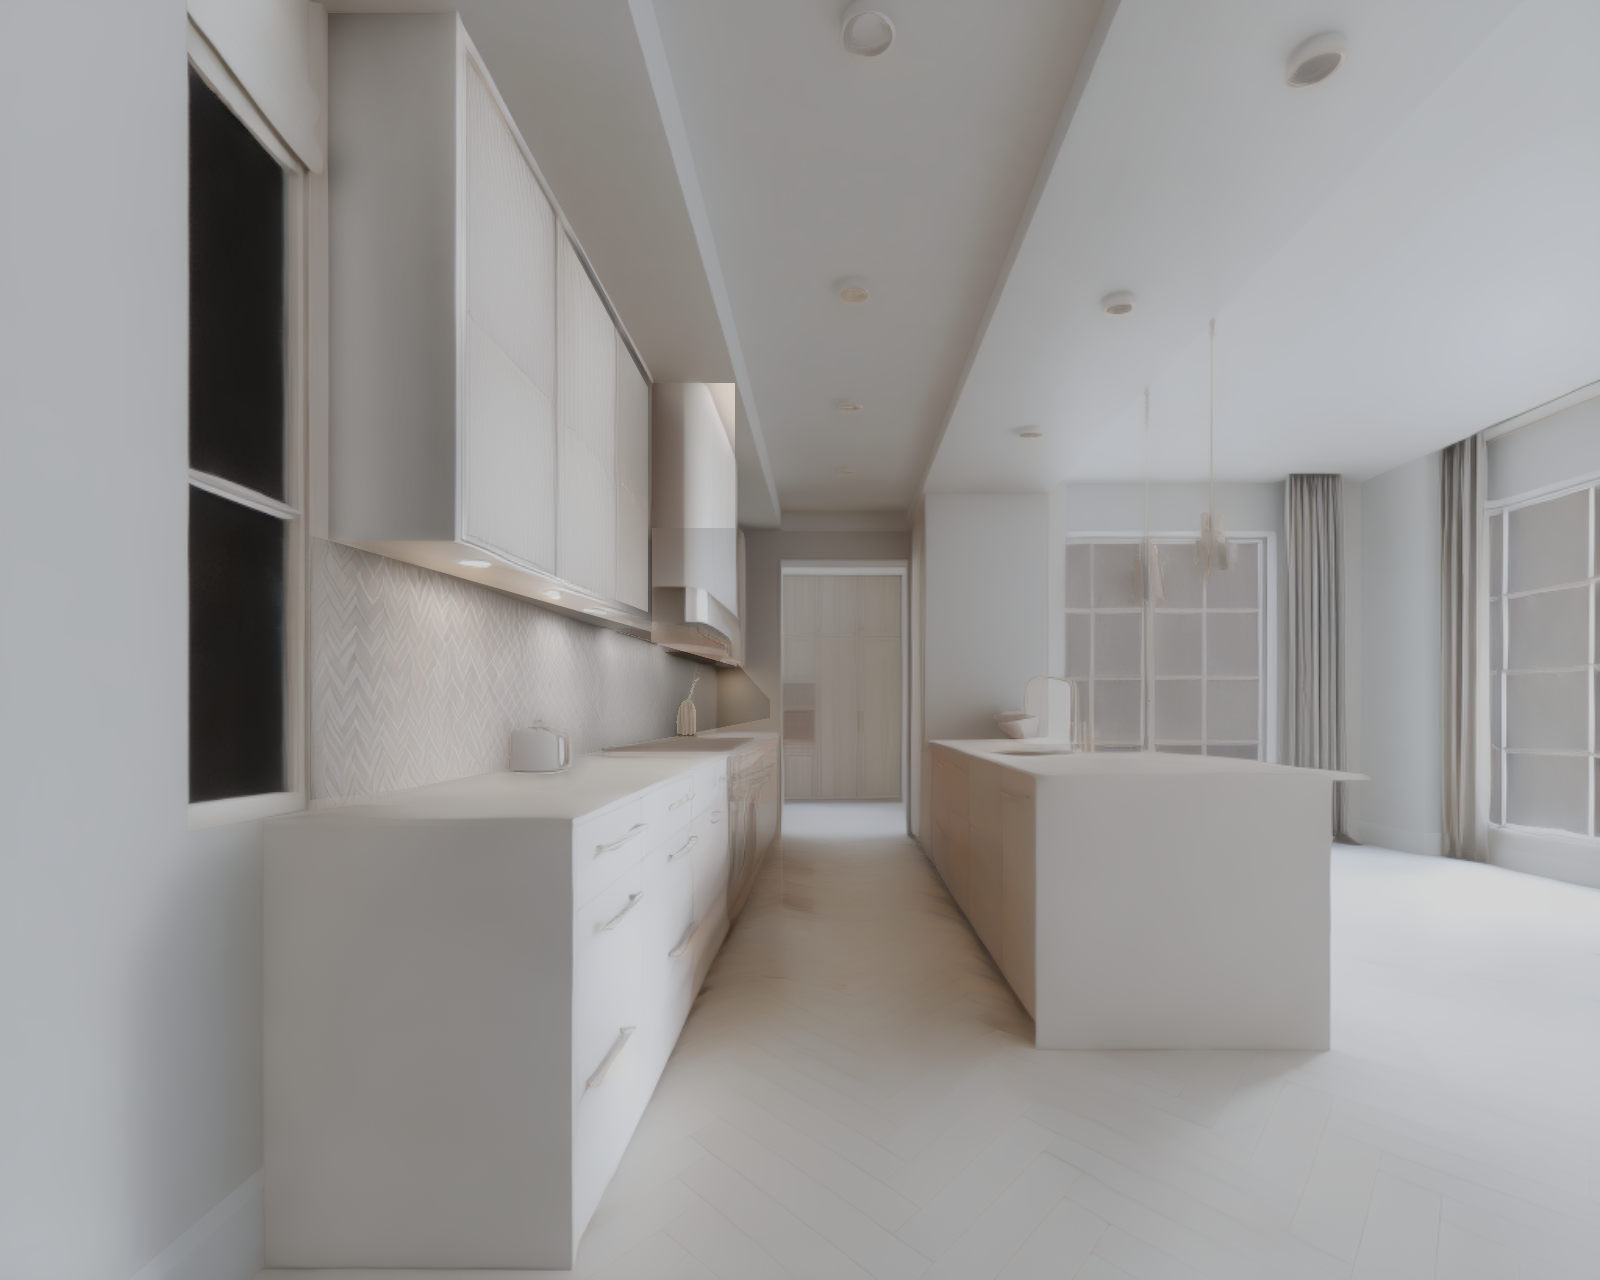
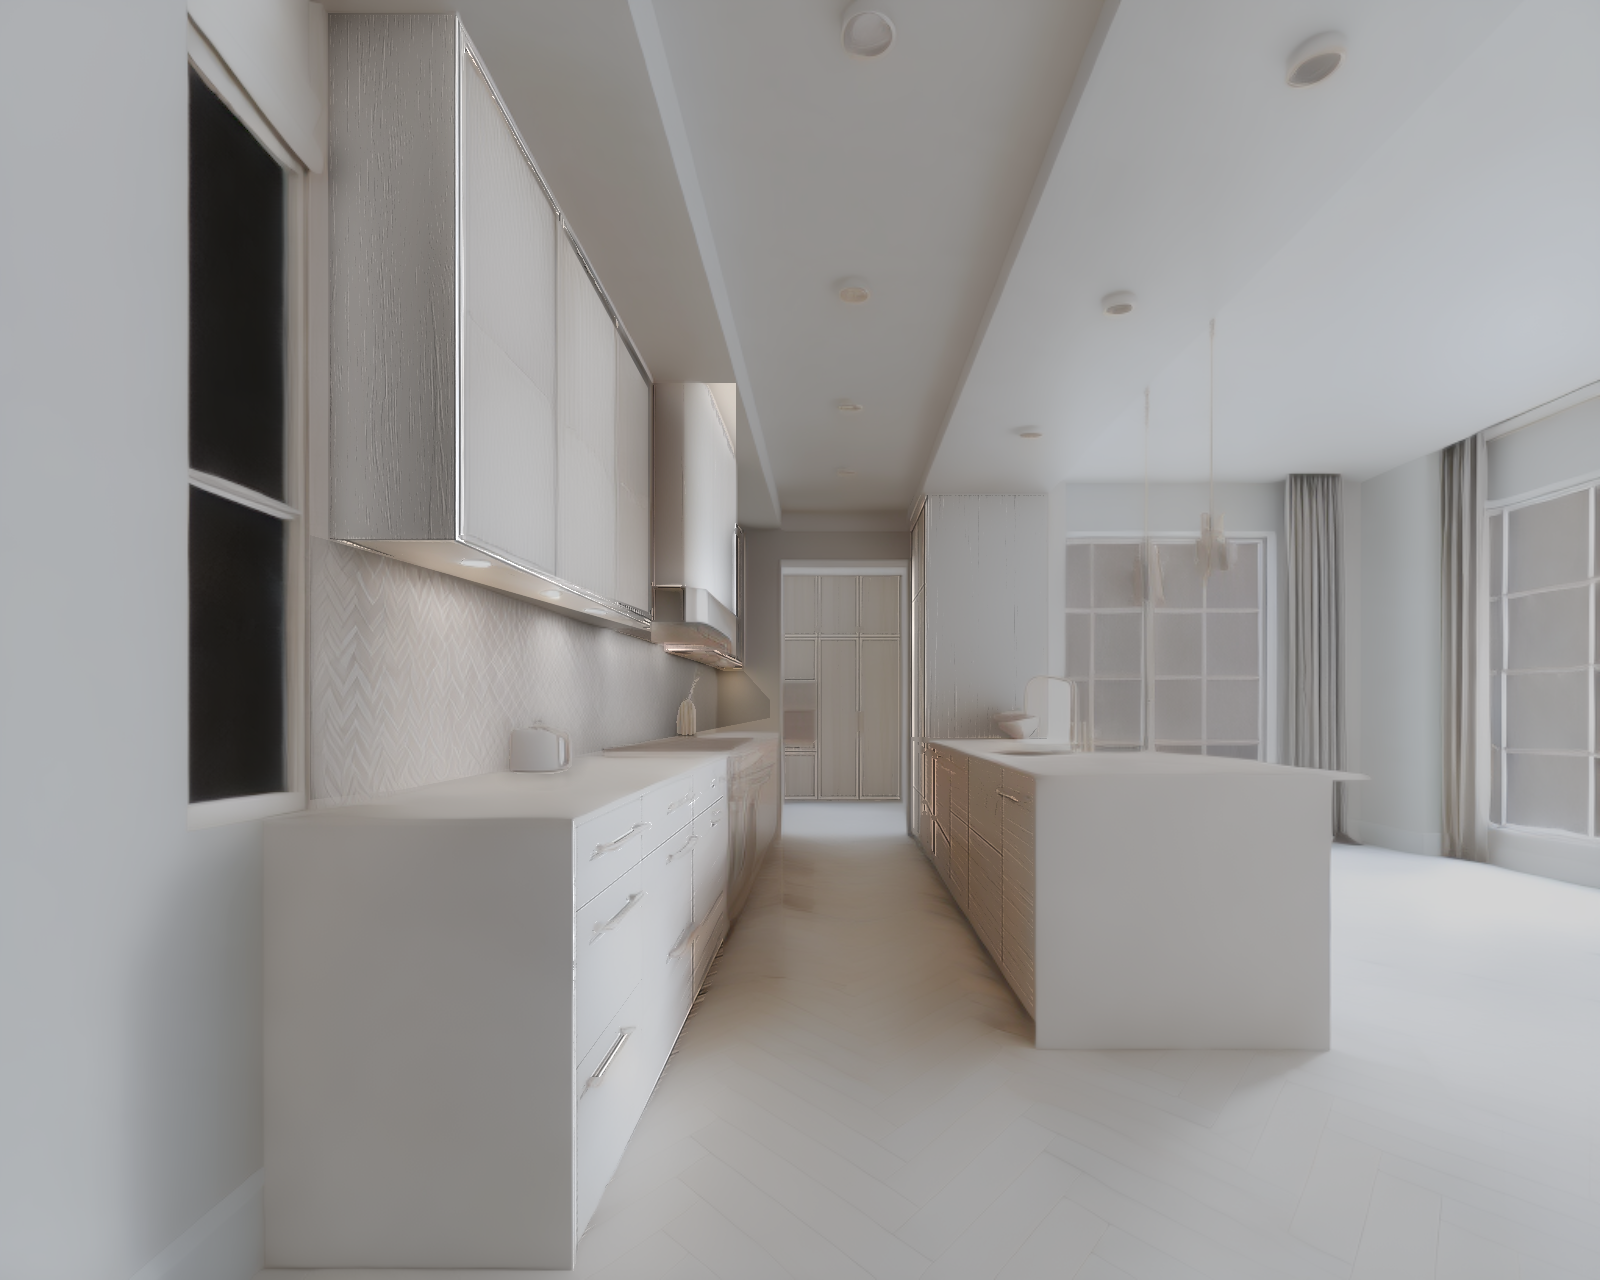
Galley kitchen: paint the hood end box and island end, keep front gaps and handles
- Wall cabinets: the end box over the cooker hood is painted down to the hood,
  with its side strip and the oak shelf under the hood (taken off the splashback)
- Island: starts at its narrow end door; its far bar handles stay brass
- Tall units: the pantry stays inside the doorway's white architrave; its bar
  handles and knobs stay brass. Base cabinets: the long upright handle stays
- Light refine `lines`: the gaps between doors and drawers (and the pantry's
  frames) are carried into the shading, so a new paint keeps them; grain stays out
- Bake page: ?items= / BAKE_ITEMS to re-bake some items of a scene
- QA points for all of the above

Changed region(s): [[0.2812, 0.0312, 0.3125, 0.4375], [0.5625, 0.4375, 0.5938, 0.6562], [0.4062, 0.4062, 0.4688, 0.5312]]

diff --git a/scenes/scenes.ts b/scenes/scenes.ts
@@ -82,6 +82,23 @@ const knob = (cx: number, cy: number, rx = 5, ry = 4.5): PctPoint[] =>
 const gEllipse = (cx: number, cy: number, rx: number, ry: number): PctPoint[] =>
   Array.from({ length: 16 }, (_, k) => G(cx + rx * Math.cos((Math.PI * k) / 8), cy + ry * Math.sin((Math.PI * k) / 8)));
 const GALLEY_DOWNLIGHTS = [gEllipse(477.5, 563, 15, 4.5), gEllipse(551, 593.5, 12, 4), gEllipse(596, 611.5, 10, 3.5), gEllipse(626, 623.5, 7, 3)];
+// The oak shelf under the cooker hood (the wall cabinets', not the splashback's) and its downlights
+const GALLEY_HOOD_SHELF = [G(664, 642), G(700, 642), G(744, 659), G(744, 671), G(725, 671), G(700, 662), G(664, 651)];
+const GALLEY_HOOD_LIGHTS = [gEllipse(699, 654, 6, 2.5), gEllipse(713, 659, 5, 2.5), gEllipse(723, 663, 4.5, 2.5), gEllipse(729, 666, 4, 2)];
+const gBox = (x0: number, y0: number, x1: number, y1: number): PctPoint[] => [G(x0, y0), G(x1, y0), G(x1, y1), G(x0, y1)];
+// The pantry's two bar handles and its four small knobs, each pixel-tight
+const GALLEY_PANTRY_HANDLES = [
+  gBox(855.6, 712.5, 859.6, 729.8), gBox(860.6, 712.5, 863.8, 729.8),
+  gBox(815.5, 627.6, 817.8, 630.8), gBox(818.6, 627.6, 820.8, 630.8), gBox(856.4, 627.6, 858.6, 630.8), gBox(859.6, 627.6, 862.4, 630.8),
+];
+// A thin bar along a segment (photo px), `half` px either side: the island's far bar handles, seen
+// edge-on, run into the door gaps as one colour and the colour rule can't single them out
+const gBar = (x0: number, y0: number, x1: number, y1: number, half = 2): PctPoint[] => {
+  const len = Math.hypot(x1 - x0, y1 - y0);
+  const [nx, ny] = [(-(y1 - y0) / len) * half, ((x1 - x0) / len) * half];
+  return [G(x0 + nx, y0 + ny), G(x1 + nx, y1 + ny), G(x1 - nx, y1 - ny), G(x0 - nx, y0 - ny)];
+};
+const GALLEY_ISLAND_HANDLES = [gBar(917, 748.5, 923, 750.5), gBar(932, 744, 950, 751), gBar(927, 752, 932, 754), gBar(950, 750.5, 965, 756.5), gBar(939, 760, 963, 771.5)];
 const GALLEY_BOWL = [G(993, 712), G(1040, 712), G(1039, 720), G(1035, 728), G(1028, 734), G(1026, 741), G(1004, 741), G(1003, 735), G(998, 728), G(994, 720)];
 // The tap's swan neck where it crosses the tall unit (right of x 1048 it is before the window)
 const GALLEY_TAP = [G(1018, 714), G(1019, 704), G(1023, 702), G(1023, 688), G(1025, 681), G(1030, 676), G(1036, 674), G(1049, 674), G(1049, 683), G(1037, 683), G(1033, 686), G(1031, 692), G(1031, 702), G(1030, 714)];
@@ -385,10 +402,16 @@ export const SCENES: Scene[] = [
         recipe: {
           label: 'cabinet',
           anchors: [],
-          // The run's oak case, frames and end box; the fluted glass doors stay glass
-          outline: [{ points: [G(328, 13), G(457, 13), G(652, 383), G(735, 383), G(735, 528), G(652, 528), G(652, 632), G(328, 540)], snap: false }],
+          // The run's oak case, frames and end box (down to the hood: its niche left of the steel
+          // front, and its sloped foot right of it); the fluted glass doors stay glass. Then the
+          // end box's side strip beside the hood and the oak shelf with downlights under the hood
+          outline: [
+            { points: [G(328, 13), G(457, 13), G(652, 383), G(736, 383), G(736, 617), G(706, 589), G(686, 587), G(686, 622), G(652, 622), G(652, 632), G(328, 540)], snap: false },
+            { points: [G(736, 522), G(744, 530), G(744, 664), G(736, 660)], snap: false },
+            { points: GALLEY_HOOD_SHELF, snap: false },
+          ],
           // …and the downlights in its underside stay lit
-          subtract: [{ points: [G(466, 52), G(648, 388), G(648, 612), G(466, 542)], snap: false }, ...GALLEY_DOWNLIGHTS.map((points) => ({ points, snap: false }))],
+          subtract: [{ points: [G(466, 52), G(648, 388), G(648, 612), G(466, 542)], snap: false }, ...[...GALLEY_DOWNLIGHTS, ...GALLEY_HOOD_LIGHTS].map((points) => ({ points, snap: false }))],
         },
       },
       {
@@ -401,10 +424,15 @@ export const SCENES: Scene[] = [
           anchors: [],
           outline: [
             [G(902, 493), G(1047, 493), G(1047, 742), G(902, 742)],
-            [G(781, 570), G(902, 570), G(902, 799), G(781, 799)],
+            // (inside the doorway's white architrave)
+            [G(784, 575), G(902, 575), G(902, 799), G(784, 799)],
           ],
-          // The oven in the far run; the bowl and the tap before the island's tall unit
-          subtract: [[G(781, 682), G(814, 682), G(814, 745), G(781, 745)], ...[GALLEY_BOWL, GALLEY_TAP].map((points) => ({ points, snap: false }))],
+          // The oven in the far run and the pantry's pale brass bar handles and knobs (too pale
+          // for the colour rule); the bowl and the tap before the island's tall unit
+          subtract: [
+            [G(781, 682), G(814, 682), G(814, 745), G(781, 745)],
+            ...[GALLEY_BOWL, GALLEY_TAP, ...GALLEY_PANTRY_HANDLES].map((points) => ({ points, snap: false })),
+          ],
         },
       },
       {
@@ -416,7 +444,11 @@ export const SCENES: Scene[] = [
           label: 'cabinet',
           anchors: [],
           outline: [{ points: [G(571, 820), G(725, 760), G(725, 960), G(571, 1280)], snap: false }],
-          protectColour: [brass([[G(571, 740), G(735, 740), G(735, 1280), G(571, 1280)]])],
+          protectColour: [
+            brass([[G(571, 740), G(735, 740), G(735, 1280), G(571, 1280)]]),
+            // The upright handle on the right-hand drawer is longer than a knob
+            { ...brass([[G(664, 918), G(703, 918), G(703, 960), G(664, 960)]]), blobs: { minArea: 22, maxArea: 1500, maxAspect: 8, core: { minSat: 0.55, minShare: 0.1 } } },
+          ],
         },
       },
       {
@@ -427,8 +459,12 @@ export const SCENES: Scene[] = [
         recipe: {
           label: 'cabinet',
           anchors: [],
-          outline: [{ points: [G(927, 741), G(1035, 778), G(1035, 1020), G(927, 845)], snap: false }],
-          protectColour: [brass([[G(920, 735), G(1040, 735), G(1040, 1025), G(920, 1025)]])],
+          // From the narrow end door beside the tall unit
+          outline: [{ points: [G(911, 739), G(927, 741), G(1035, 778), G(1035, 1020), G(927, 845), G(911, 827)], snap: false }],
+          subtract: GALLEY_ISLAND_HANDLES.map((points) => ({ points, snap: false })),
+          // Its oak is warmer than the other runs' (sat 0.45–0.5), so brass is only what is clearly
+          // more saturated (0.6–0.8)
+          protectColour: [{ ...brass([[G(905, 735), G(1040, 735), G(1040, 1025), G(905, 1025)]], 12), minSat: 0.58, blobs: { minArea: 12, maxArea: 700, maxAspect: 12, core: { minSat: 0.65, minShare: 0.1 } } }],
         },
       },
       {
@@ -461,8 +497,8 @@ export const SCENES: Scene[] = [
           label: 'wall',
           anchors: [],
           outline: [{ points: [G(310, 535), G(328, 540), G(652, 632), G(735, 661), G(770, 700), G(770, 718), G(400, 790), G(310, 800)], snap: false }],
-          // The cooker hood above the range
-          subtract: [[G(652, 587), G(735, 587), G(735, 661), G(652, 640)]],
+          // The cooker hood above the range, and the oak shelf under it
+          subtract: [[G(652, 587), G(735, 587), G(735, 661), G(652, 640)], { points: GALLEY_HOOD_SHELF, snap: false }],
           protect: [G(533, 746), G(688, 712)],
           protectSoft: GALLEY_THIN,
         },

diff --git a/scenes/lightRefine.ts b/scenes/lightRefine.ts
@@ -35,7 +35,15 @@ export interface LightRefine {
   contrast?: number;
   // Polished floor: reflection streaks moved from the albedo into the reflection layer
   gloss?: { along: number; across: number };
+  // Cabinet fronts: the gaps between doors and drawers (a dark slot with a lit edge) carried into
+  // the shading, so a new paint keeps them; grain, fainter than `threshold`, stays the material's.
+  // `strength` scales them (a gap reads fainter on a dark paint than on pale oak)
+  lines?: { sigma: number; threshold: number; strength?: number };
 }
+
+// A gap between oak fronts is a dark slot or a lit edge a few px wide, 8%+ off the wood around it
+// (log luminance); the grain beside it mostly stays under that
+const FRONT_LINES = { sigma: 2.5, threshold: 0.08, strength: 1.5 };
 
 // Per scene, per item. Only the Galley so far: the Classic kitchen's paints are fitted against its
 // unrefined light (npm run finishes:fromref), and the Modern kitchen's light reads right as it is
@@ -44,8 +52,12 @@ export const LIGHT_REFINE: Record<string, Record<string, LightRefine>> = {
     // The light pools under the wall cabinets and the run darkening toward the hood, as strong as
     // they look on the white tile
     splashback: { sigma: 10, contrast: 1.8 },
-    // The lit underside of the wall cabinets around its downlights
-    'wall-cabinets': { sigma: 8 },
+    // The lit underside of the wall cabinets around its downlights; on every front, the gaps
+    // between its doors and drawers and the pantry's door frames
+    'wall-cabinets': { sigma: 8, lines: FRONT_LINES },
+    'tall-units': { sigma: 0, lines: FRONT_LINES },
+    'base-cabinets': { sigma: 0, lines: FRONT_LINES },
+    island: { sigma: 0, lines: FRONT_LINES },
     // The toaster's, the vase's and the tap's contact shadows and reflections; the veins stay
     worktop: { sigma: 3, near: 18 },
     // The polished herringbone's reflections of the doorway, the oven and the cabinet edges
@@ -166,9 +178,10 @@ export const lightGain = (layers: LightLayers, mask: Float32Array, occluder: Flo
   const { width: w, height: h, shading } = layers;
   const n = w * h;
   const gain = new Float32Array(n).fill(1);
-  if (opts.sigma <= 0 && !opts.contrast) return gain;
+  if (opts.sigma <= 0 && !opts.contrast && !opts.lines) return gain;
   const { logA, weight, count } = logAlbedo(layers, mask);
   if (count < 16) return gain;
+  const lines = opts.lines ? frontLines(logA, weight, w, h, opts.lines) : null;
   // The reference level is the median of the smoothed albedo, on the same footing as what it is
   // compared with (a raw median of a two-tone grain would sit on one tone, the blur between them)
   const smooth = opts.sigma > 0 ? maskedBlur(logA, weight, w, h, opts.sigma) : new Float32Array(n);
@@ -195,7 +208,29 @@ export const lightGain = (layers: LightLayers, mask: Float32Array, occluder: Flo
       gain[i] *= Math.exp(e * mask[i]);
     }
   }
+  if (lines) for (let i = 0; i < n; i++) if (lines[i] && mask[i] > 0) gain[i] *= Math.exp(Math.min(max, Math.max(-max, lines[i])) * mask[i]);
   return gain;
+};
+
+/**
+ * The albedo's fine structure (log, relative to a `sigma` blur) where it stands out by more than
+ * `threshold`, fading in up to twice that: the slots and lit edges between fronts, not the grain.
+ */
+export const frontLines = (logA: Float32Array, weight: Float32Array, w: number, h: number, opts: { sigma: number; threshold: number; strength?: number }): Float32Array => {
+  const base = maskedBlur(logA, weight, w, h, opts.sigma);
+  const out = new Float32Array(w * h);
+  const t = opts.threshold;
+  // The item's own outline is no line to carry: its rim pixels are part background
+  const outside = new Float32Array(w * h);
+  for (let i = 0; i < out.length; i++) outside[i] = weight[i] ? 0 : 1;
+  const rim = distanceTo(outside, w, h);
+  for (let i = 0; i < out.length; i++) {
+    if (!weight[i] || rim[i] <= 2) continue;
+    const d = logA[i] - base[i];
+    const k = Math.min(1, Math.max(0, (Math.abs(d) - t) / t));
+    out[i] = d * k * k * (3 - 2 * k) * (opts.strength ?? 1);
+  }
+  return out;
 };
 
 /**

diff --git a/components/dev/SceneBakePage.tsx b/components/dev/SceneBakePage.tsx
@@ -43,7 +43,7 @@ export const SceneBakePage: React.FC = () => {
   );
   useEffect(() => void refresh(), [refresh]);
 
-  // ?run=all|missing[&scene=<id>] starts a bake on load (npm run scenes:bake drives this)
+  // ?run=all|missing[&scene=<id>][&items=<id>,…] starts a bake on load (npm run scenes:bake drives this)
   const started = useRef(false);
   useEffect(() => {
     const params = new URLSearchParams(window.location.search);
@@ -52,7 +52,8 @@ export const SceneBakePage: React.FC = () => {
     started.current = true;
     const only = params.get('scene');
     if (only) setSceneId(only as typeof sceneId);
-    void autoBake(only ? SCENES.filter((s) => s.id === only) : SCENES, run === 'missing');
+    const items = params.get('items')?.split(',');
+    void autoBake(only ? SCENES.filter((s) => s.id === only) : SCENES, run === 'missing', items);
   }, [bust]); // eslint-disable-line react-hooks/exhaustive-deps
 
   // Overview: every baked item of the scene tinted over the photo
@@ -98,12 +99,13 @@ export const SceneBakePage: React.FC = () => {
     return result;
   };
 
-  const autoBake = async (scenes: Scene[], onlyMissing: boolean) => {
+  const autoBake = async (scenes: Scene[], onlyMissing: boolean, onlyItems?: string[]) => {
     setError(null);
     setLog([]);
     for (const s of scenes) {
       for (const item of s.items) {
         if (onlyMissing && baked[s.id]?.items[item.id]) continue;
+        if (onlyItems && !onlyItems.includes(item.id)) continue;
         try {
           const r = await bakeAndSave(s, item);
           setLog((l) => [...l, `✓ ${s.id}/${item.id} — ${r.parts.length} plane(s), confidence ${Math.round(r.confidence * 100)}%`]);

diff --git a/scenes/qa.ts b/scenes/qa.ts
@@ -86,8 +86,13 @@ export const SCENE_QA: Record<string, ItemQa> = {
   'kitchen-modern/base-cabinets': { include: [[880, 770], [430, 880], [1420, 900]] },
   // Galley: the hob, toaster and tap are not worktop; the fluted glass is not wall cabinet
   'kitchen-galley/worktop': { include: [[420, 1050], [1180, 900], [1200, 772]], exclude: [[680, 744], [533, 746], [1052, 712]] },
-  'kitchen-galley/wall-cabinets': { include: [[390, 300]], exclude: [[560, 330]] },
-  'kitchen-galley/base-cabinets': { include: [[650, 900]] },
+  // …the end box over the hood down to its foot, its side strip and the shelf under the hood are
+  // (its steel front is not); the long upright drawer handle and the island's and pantry's brass
+  // stay; the island starts at its narrow end door; the doorway's white architrave is no pantry
+  'kitchen-galley/wall-cabinets': { include: [[390, 300], [670, 570], [725, 600], [740, 600], [690, 646]], exclude: [[560, 330], [696, 605]] },
+  'kitchen-galley/base-cabinets': { include: [[650, 900]], exclude: [[684, 936]] },
+  'kitchen-galley/island': { include: [[918, 790], [980, 850]], exclude: [[1010, 792], [951, 766]] },
+  'kitchen-galley/tall-units': { include: [[840, 700], [975, 600]], exclude: [[782, 700], [858, 720], [800, 571]] },
   // The door's foot and the right wall's skirting are not floor
   'wardrobe/floor': { include: [[1500, 950], [800, 1000]], exclude: [[110, 995], [150, 962], [1540, 895], [1500, 860]] },
   // The door casing's plinth block is not wall

diff --git a/tests/e2e/scene-bake.spec.ts b/tests/e2e/scene-bake.spec.ts
@@ -2,7 +2,7 @@ import { test, expect } from '@playwright/test';
 
 // Opt-in (npm run scenes:bake, real models, several minutes per scene): runs every preset scene
 // item's recipe in /dev/scenes and writes the masks/planes the studio ships. BAKE=missing bakes
-// only items not baked yet; BAKE_SCENE=<id> limits it to one scene. Re-run after changing a
+// only items not baked yet; BAKE_SCENE=<id> limits it to one scene, BAKE_ITEMS=<id>,… to some of its items. Re-run after changing a
 // recipe or a scene photo, then review and correct the items in /dev/scenes. Don't edit source
 // files while it runs: a hot reload restarts the page and stops the bake.
 test.skip(!process.env.BAKE, 'opt-in: BAKE=1');
@@ -10,7 +10,7 @@ test.skip(!process.env.BAKE, 'opt-in: BAKE=1');
 test('bake scene items', async ({ page }) => {
   test.setTimeout(60 * 60_000);
   page.on('console', (m) => m.type() === 'error' && console.log('[page]', m.text()));
-  const scene = process.env.BAKE_SCENE ? `&scene=${process.env.BAKE_SCENE}` : '';
+  const scene = (process.env.BAKE_SCENE ? `&scene=${process.env.BAKE_SCENE}` : '') + (process.env.BAKE_ITEMS ? `&items=${process.env.BAKE_ITEMS}` : '');
   // Wait for the baked state to load before starting (?run reads it to skip baked items)
   await page.goto(`/dev/scenes?run=${process.env.BAKE === 'missing' ? 'missing' : 'all'}${scene}`);
   const log = page.getByTestId('bake-log');

diff --git a/tests/unit/lightRefine.test.ts b/tests/unit/lightRefine.test.ts
@@ -89,3 +89,18 @@ describe('maskedBlur and distanceTo', () => {
     expect(d[20 * W + 16]).toBeCloseTo(6, 5);
   });
 });
+
+describe('frontLines', () => {
+  it('carries the gap between two fronts, not the grain', async () => {
+    const { frontLines } = await import('../../scenes/lightRefine');
+    // Log albedo: faint grain (±0.03) everywhere, a dark slot (−0.4) at x 40–41
+    const logA = new Float32Array(W * H);
+    const weight = new Float32Array(W * H).fill(1);
+    for (let i = 0; i < W * H; i++) logA[i] = (i % W === 40 || i % W === 41 ? -0.4 : 0) + (i % 2 ? 0.03 : -0.03);
+    const out = frontLines(logA, weight, W, H, { sigma: 2.5, threshold: 0.08 });
+    expect(out[20 * W + 40]).toBeLessThan(-0.2);
+    for (let x = 10; x < 34; x++) expect(Math.abs(out[20 * W + x])).toBe(0);
+    // The item's own rim carries nothing
+    expect(Math.abs(out[0])).toBe(0);
+  });
+});
